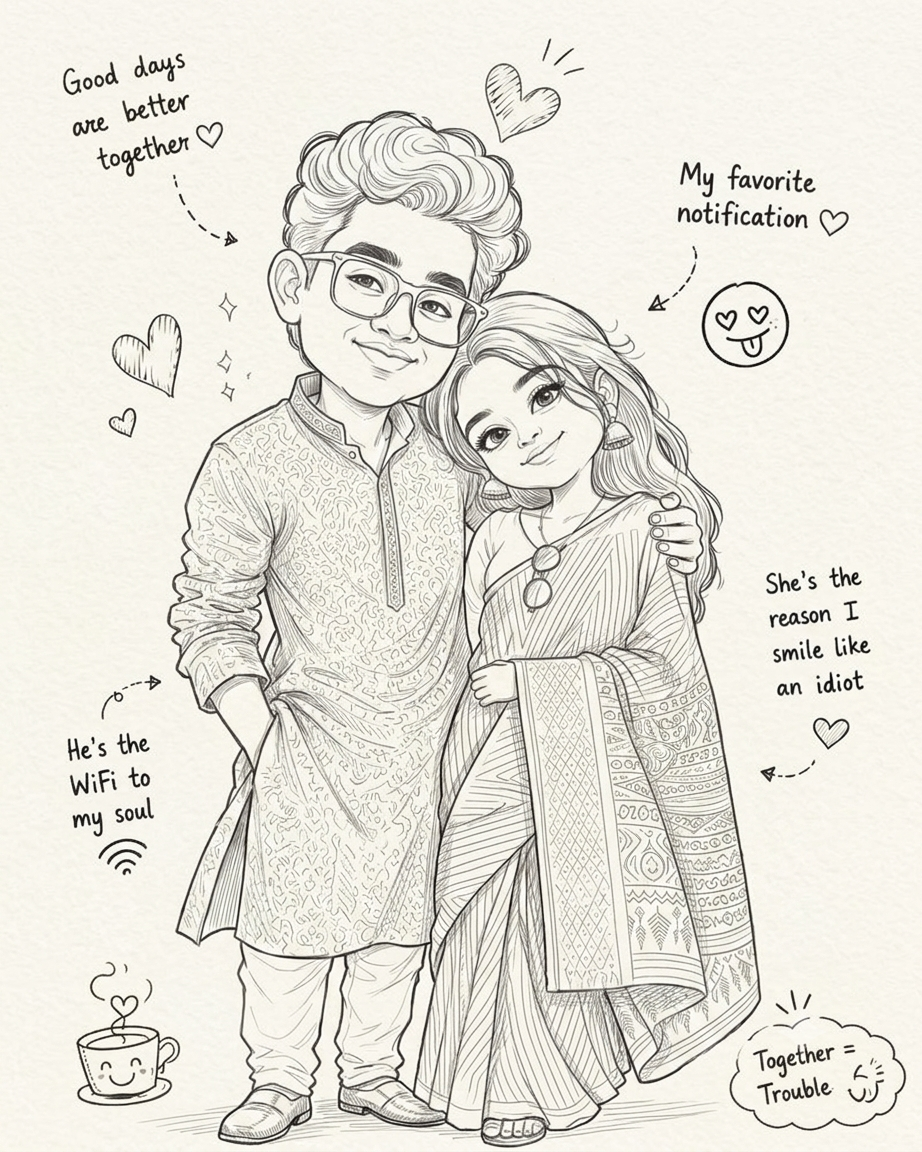
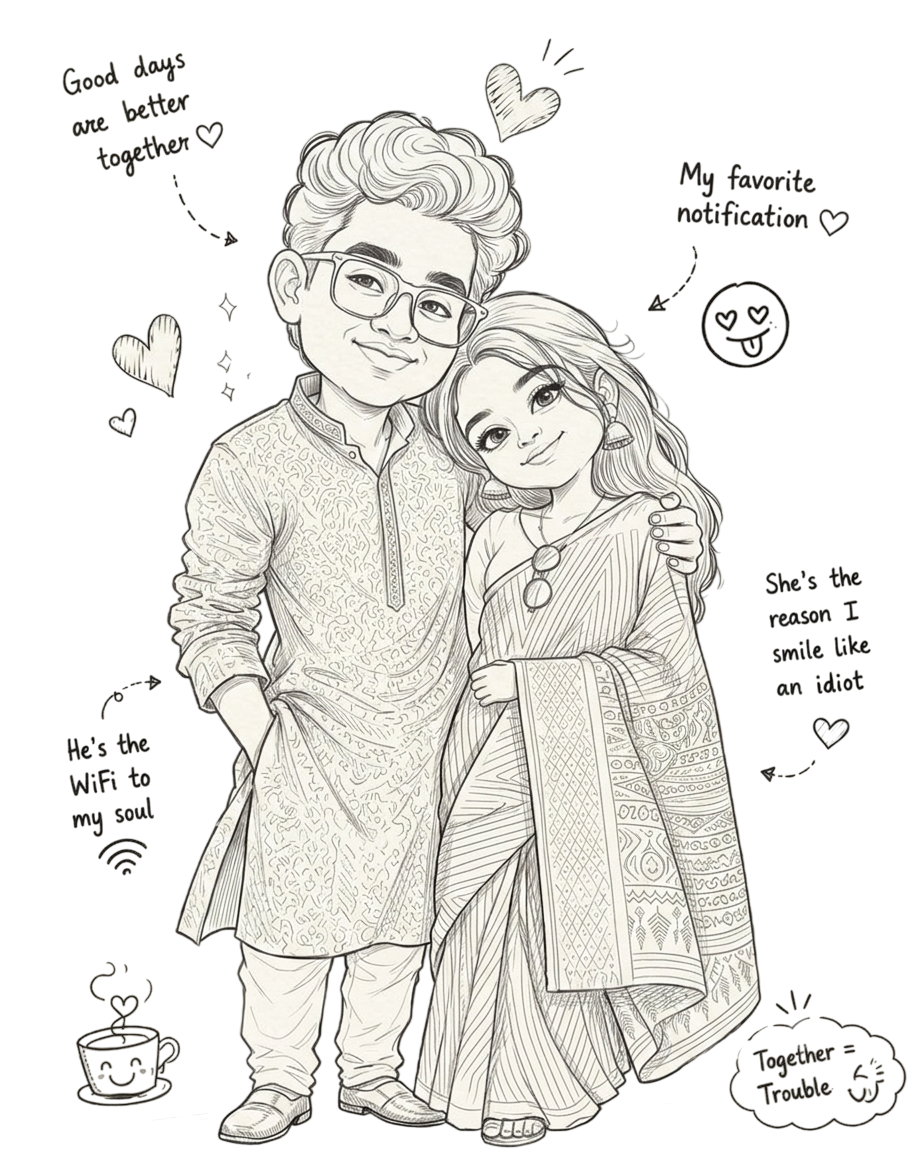
Updated UI

diff --git a/src/components/Drawer.jsx b/src/components/Drawer.jsx
@@ -1,7 +1,78 @@
 import React from "react";
 import { motion, AnimatePresence } from "framer-motion";
 import { IoClose } from "react-icons/io5";
+
 import doodle from "../assets/images/doodle.png";
+
+import img1 from "../assets/favourites/biryani.png";
+import img2 from "../assets/favourites/momos.png";
+import img3 from "../assets/favourites/icecream.png";
+import img4 from "../assets/favourites/icecream2.png";
+import img5 from "../assets/favourites/harry.png";
+import img6 from "../assets/favourites/draco.png";
+import img7 from "../assets/favourites/cherry.png";
+import img8 from "../assets/favourites/peach.png";
+import img9 from "../assets/favourites/chai.png";
+
+const favouriteImages = [img1, img2, img3, img4, img5, img6, img7, img8, img9];
+
+// Fixed random-looking positions
+const favouritePositions = [
+  {
+    top: "12%",
+    left: "5%",
+    width: "58px",
+    rotate: -12,
+  },
+  {
+    top: "24%",
+    right: "5%",
+    width: "52px",
+    rotate: 10,
+  },
+  {
+    top: "42%",
+    left: "4%",
+    width: "62px",
+    rotate: 8,
+  },
+  {
+    top: "55%",
+    right: "4%",
+    width: "58px",
+    rotate: -10,
+  },
+  {
+    top: "70%",
+    left: "7%",
+    width: "55px",
+    rotate: -7,
+  },
+  {
+    top: "78%",
+    right: "7%",
+    width: "62px",
+    rotate: 12,
+  },
+  {
+    top: "88%",
+    left: "15%",
+    width: "50px",
+    rotate: -9,
+  },
+  {
+    top: "3%",
+    left: "30%",
+    width: "48px",
+    rotate: 14,
+  },
+  {
+    top: "90%",
+    right: "18%",
+    width: "52px",
+    rotate: 7,
+  },
+];
 
 const Drawer = ({ isOpen, onClose }) => {
   return (
@@ -15,7 +86,13 @@ const Drawer = ({ isOpen, onClose }) => {
             exit={{ opacity: 0 }}
             transition={{ duration: 0.25 }}
             onClick={onClose}
-            className="fixed inset-0 z-[60] bg-black/30 backdrop-blur-[2px]"
+            className="
+              fixed
+              inset-0
+              z-[60]
+              bg-black/30
+              backdrop-blur-[2px]
+            "
           />
 
           {/* Drawer */}
@@ -41,6 +118,50 @@ const Drawer = ({ isOpen, onClose }) => {
               md:w-[40%]
             "
           >
+            {/* Favourite Images */}
+            <div className="pointer-events-none absolute inset-0 z-[1]">
+              {favouriteImages.map((image, index) => {
+                const position = favouritePositions[index];
+
+                return (
+                  <motion.img
+                    key={index}
+                    src={image}
+                    alt=""
+                    initial={{
+                      opacity: 0,
+                      scale: 0.5,
+                      rotate: position.rotate - 8,
+                    }}
+                    animate={{
+                      opacity: 0.95,
+                      scale: 1,
+                      rotate: position.rotate,
+                    }}
+                    transition={{
+                      delay: 0.15 + index * 0.06,
+                      duration: 0.5,
+                      type: "spring",
+                      stiffness: 180,
+                      damping: 15,
+                    }}
+                    style={{
+                      position: "absolute",
+                      top: position.top,
+                      left: position.left,
+                      right: position.right,
+                      width: position.width,
+                    }}
+                    className="
+                      h-26
+                      object-contain
+                      drop-shadow-[0_8px_10px_rgba(0,0,0,0.08)]
+                    "
+                  />
+                );
+              })}
+            </div>
+
             {/* Close Button */}
             <button
               type="button"
@@ -69,15 +190,24 @@ const Drawer = ({ isOpen, onClose }) => {
               <IoClose size={25} />
             </button>
 
-            {/* Content */}
-            <div className="flex h-full flex-col items-center px-6 pt-20">
+            {/* Main Content */}
+            <div className="relative z-[5] flex h-full flex-col items-center px-6 pt-20">
               {/* Doodle */}
               <motion.img
                 src={doodle}
                 alt="Doraemon birthday doodle"
-                initial={{ opacity: 0, scale: 0.9 }}
-                animate={{ opacity: 1, scale: 1 }}
-                transition={{ delay: 0.2, duration: 0.5 }}
+                initial={{
+                  opacity: 0,
+                  scale: 0.9,
+                }}
+                animate={{
+                  opacity: 1,
+                  scale: 1,
+                }}
+                transition={{
+                  delay: 0.2,
+                  duration: 0.5,
+                }}
                 className="
                   h-auto
                   w-[85%]
@@ -89,19 +219,43 @@ const Drawer = ({ isOpen, onClose }) => {
 
               {/* Text */}
               <motion.div
-                initial={{ opacity: 0, y: 15 }}
-                animate={{ opacity: 1, y: 0 }}
-                transition={{ delay: 0.35, duration: 0.5 }}
+                initial={{
+                  opacity: 0,
+                  y: 15,
+                }}
+                animate={{
+                  opacity: 1,
+                  y: 0,
+                }}
+                transition={{
+                  delay: 0.35,
+                  duration: 0.5,
+                }}
                 className="mt-8 text-center"
               >
-
-                <h2 className="mt-10 font-heading text-3xl font-medium text-slate-800 sm:text-4xl">
-                  Happy Birthday
-                
-                  <span className="text-[#009FE3]"> Baybee!</span>
+                <h2
+                  className="
+                    mt-10
+                    font-heading
+                    text-3xl
+                    font-medium
+                    text-slate-800
+                    sm:text-4xl
+                  "
+                >
+                  Happy Birthday <span className="text-[#009FE3]">Baybee!</span>
                 </h2>
 
-                <p className="mx-auto mt-1 max-w-sm text-sm leading-6 text-slate-500">
+                <p
+                  className="
+                    mx-auto
+                    mt-1
+                    max-w-sm
+                    text-sm
+                    leading-6
+                    text-slate-500
+                  "
+                >
                   Welcome to your little corner of magic.
                 </p>
               </motion.div>
@@ -111,7 +265,13 @@ const Drawer = ({ isOpen, onClose }) => {
                 initial={{ opacity: 0 }}
                 animate={{ opacity: 1 }}
                 transition={{ delay: 0.6 }}
-                className="mt-auto pb-8 font-heading text-sm text-[#147dcc]"
+                className="
+                  mt-auto
+                  pb-8
+                  font-heading
+                  text-sm
+                  text-[#147dcc]
+                "
               >
                 Made just for you ♡
               </motion.p>
